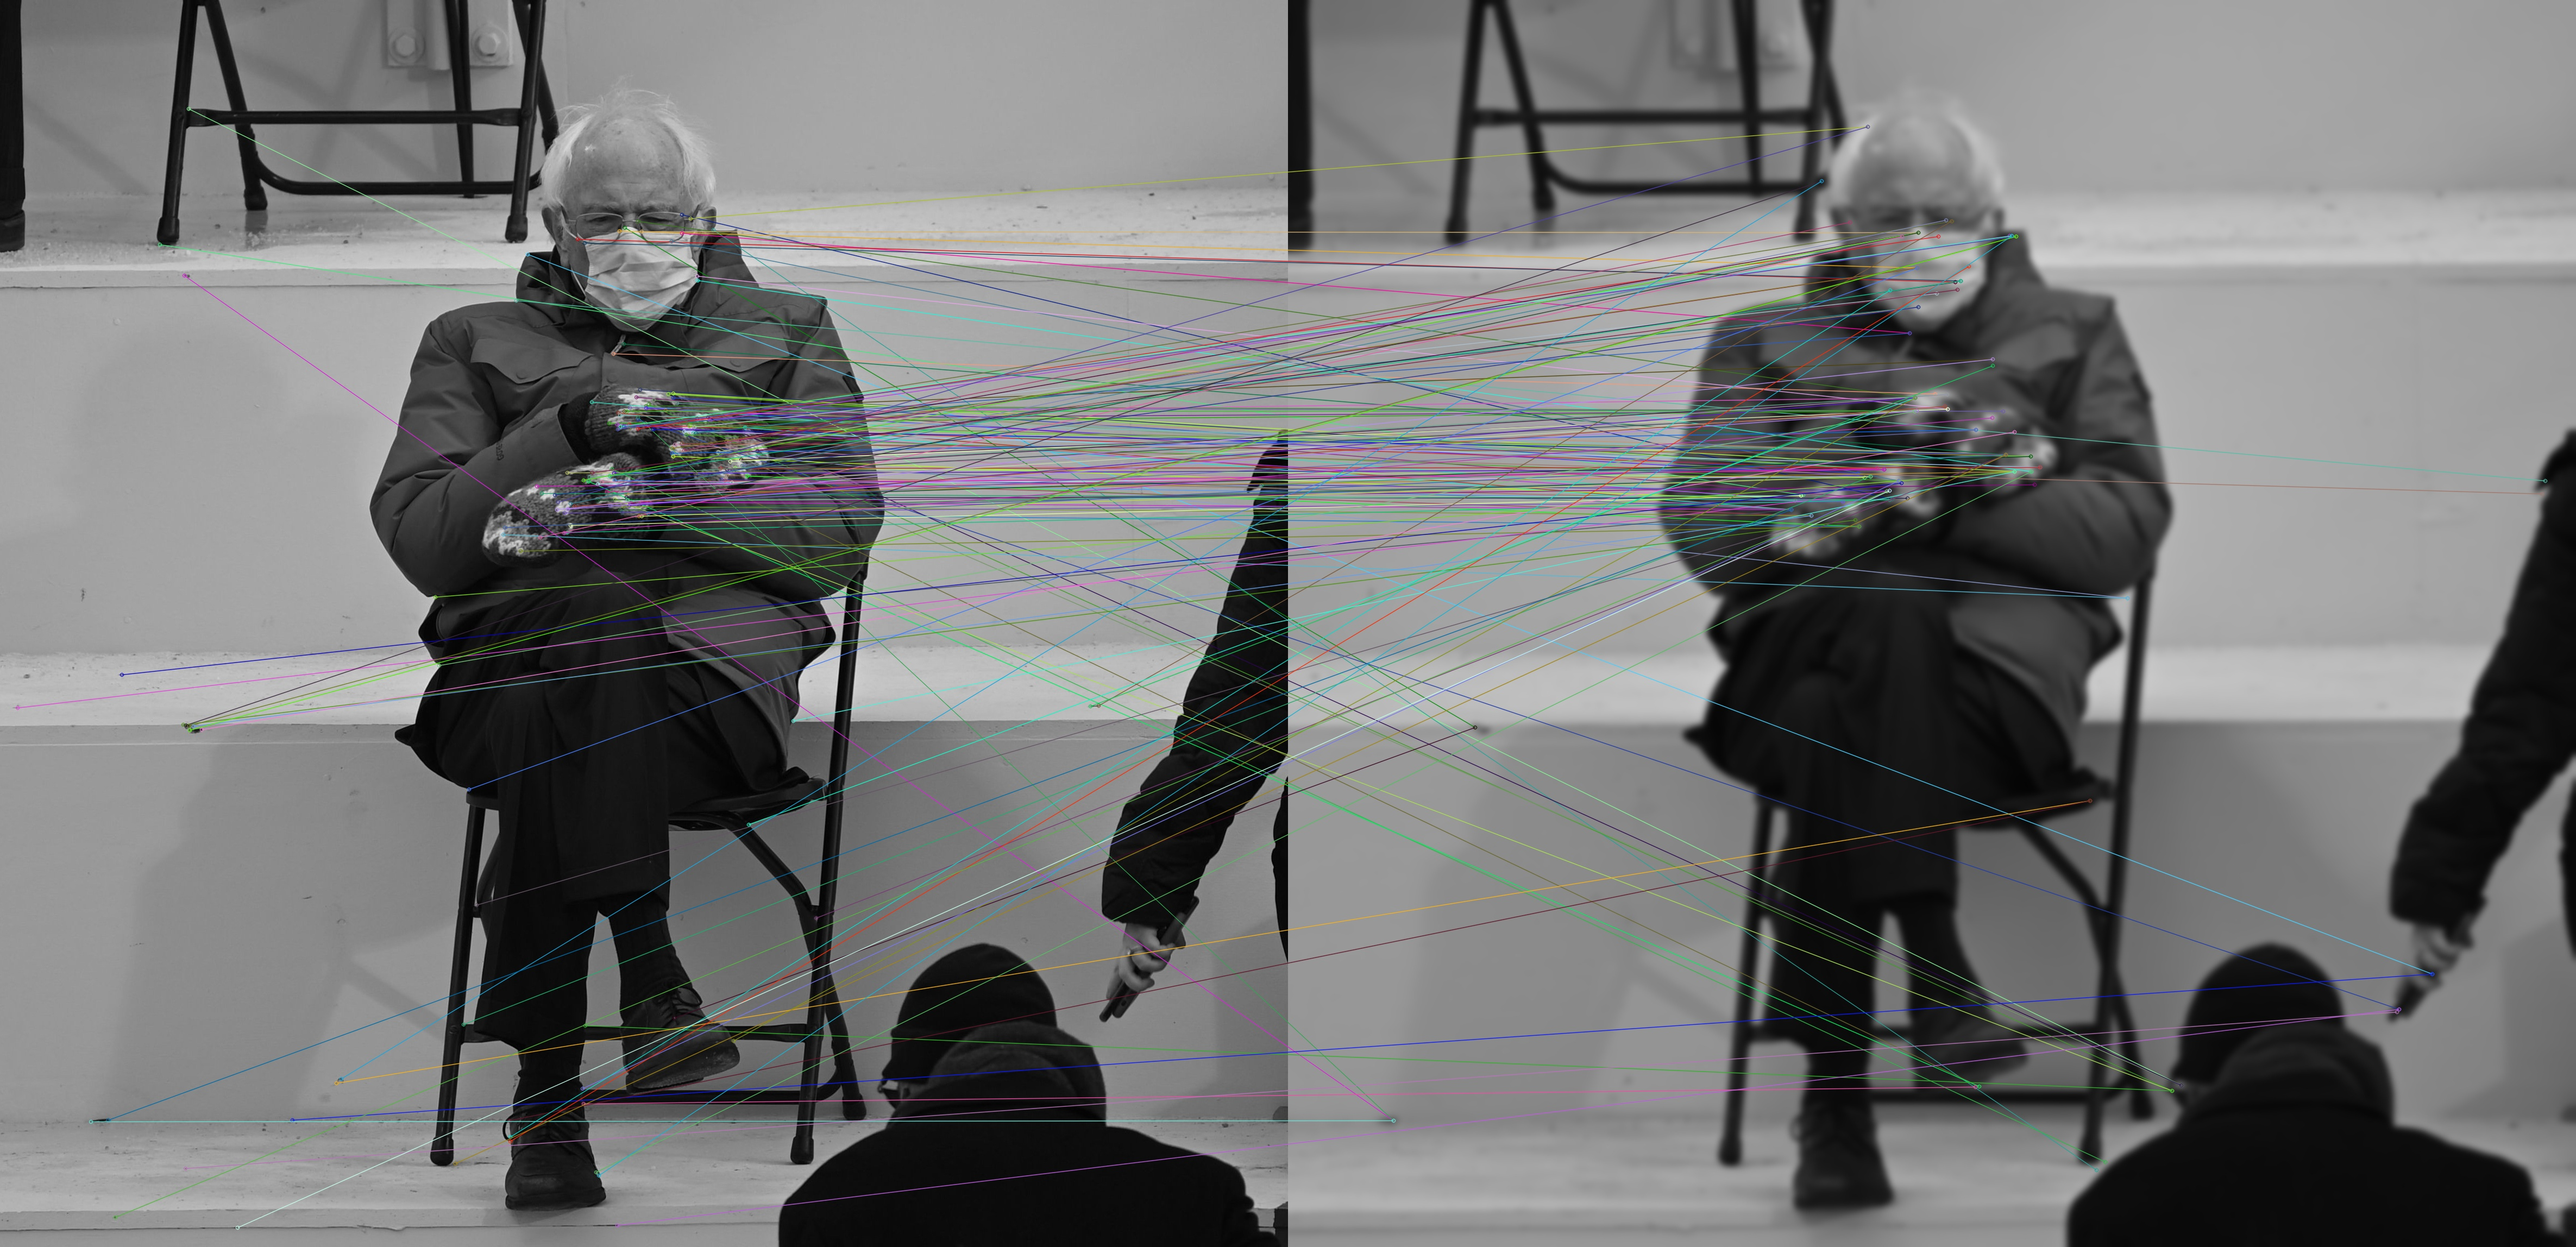
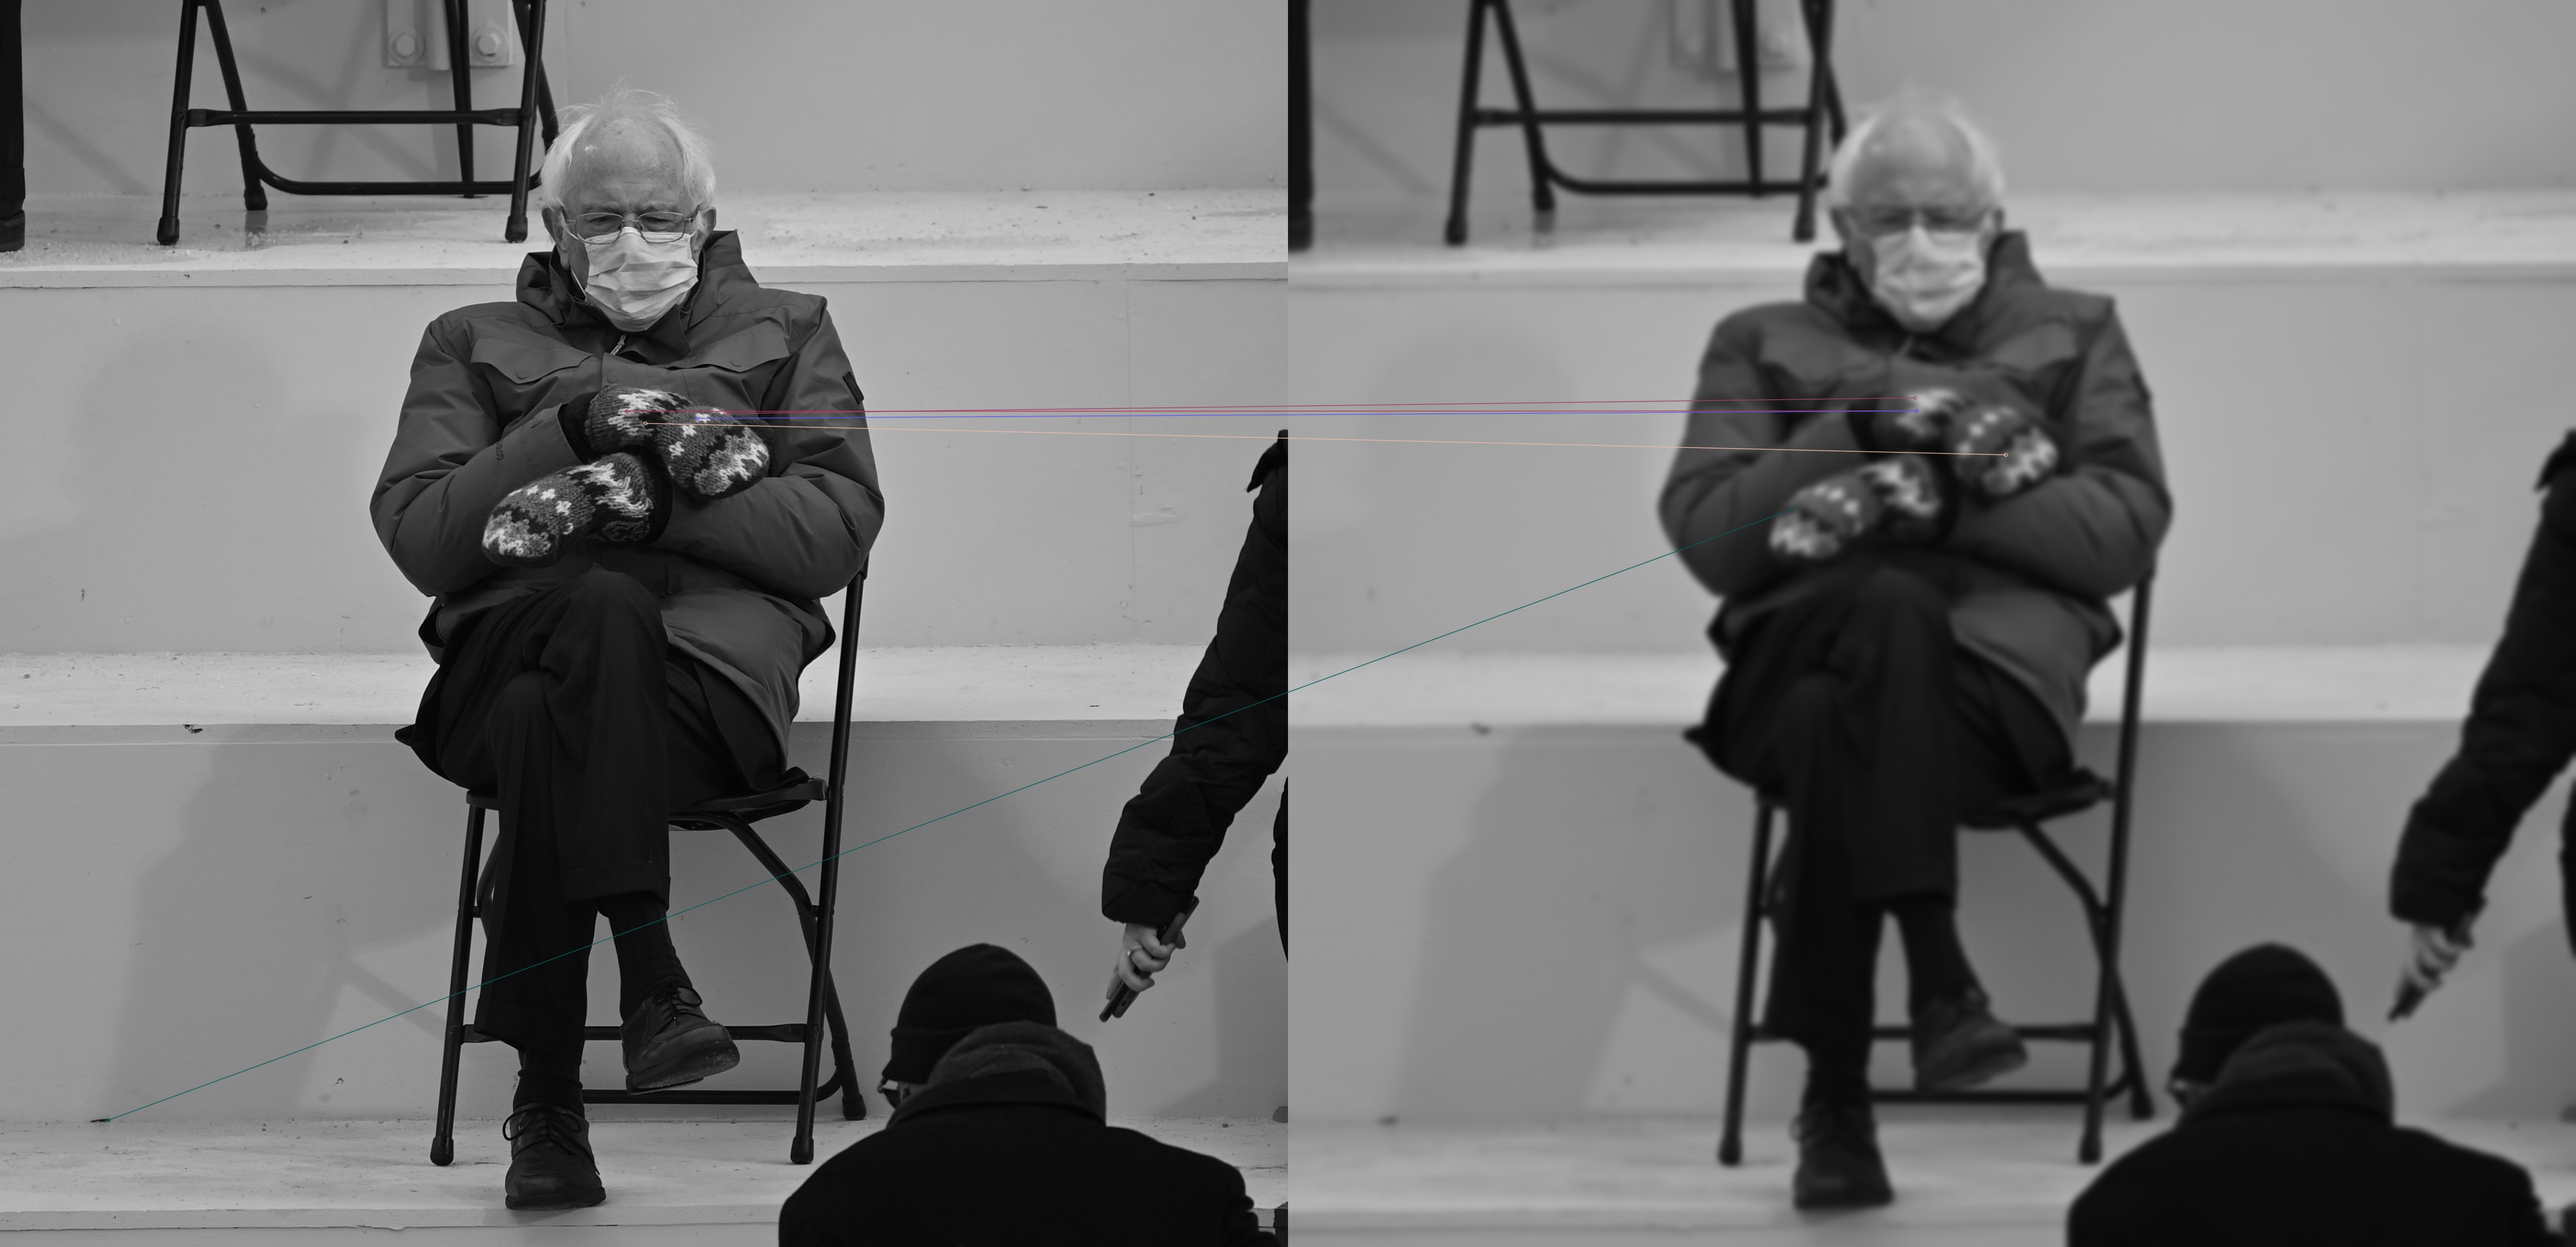
Project Completed, Just Need to Mess With Threshold Values

diff --git a/bernie.py b/bernie.py
@@ -108,11 +108,11 @@ def ConvertToKeyPoints(arr):
 
     return kps
 
-def ProcessImage(path):
+def ProcessImage(path, thres):
     '''Return the Feature Descriptors and KPs'''
     points, orien = HarrisPointDetector("Bernies/" + path)
     PlotGraph(points, path)
-    points = ThresholdPoints(points, 0.04)
+    points = ThresholdPoints(points, thres)
     bernie = ReadImage("Bernies/" + path)
     des, points = FeatureDescription(bernie, points, path)
     return points, des
@@ -121,7 +121,7 @@ def SSD(p1, p2):
     # Get the Distance Between
     return np.linalg.norm(p1 - p2)
 
-def BestMatch(p1s, p2s, d1s, d2s, ratio):
+def BestMatch(p1s, p2s, d1s, d2s, ratio, path):
     '''Get the Best Matching Feature in Both'''
 
     arr = [[0 for _ in range(len(p2s))] for _ in range(len(p1s))]
@@ -132,6 +132,7 @@ def BestMatch(p1s, p2s, d1s, d2s, ratio):
             arr[i][j] = SSD(d1s[i], d2s[j])
 
     matches = []
+    vals = []
 
     for i, p in enumerate(arr):
         # Get the Index and Value of the Highest Element
@@ -140,17 +141,27 @@ def BestMatch(p1s, p2s, d1s, d2s, ratio):
         val = p_temp[j]
         # Get the Second Highest
         p_temp[j] = -1
-        second_val = np.argmax(p_temp)
+        second_val = p_temp[np.argmax(p_temp)]
 
         if val == 0 or second_val == 0:
             continue
+
+
+        vals.append(second_val / val)
 
         # Check the Ratio
         if second_val / val < ratio:
             tmp = cv2.DMatch(i, j, val)
             matches.append(tmp)
+        else:
+            print(str(second_val / val))
+
+        second_val = 0
+        val = 0
 
     # Return the Points that Are Relevant to This
+            
+    PlotRatios(vals, path)
     return matches
 
 def DrawLines(img1, img2, p1, p2, matches):
@@ -161,8 +172,31 @@ def DrawLines(img1, img2, p1, p2, matches):
 
     return matched_img
 
-def PlotRatios():
-    pass # TODO:: IMPLEMENT
+def GetRatioGraphValues(vals):
+    '''Get the Number of Items lt that Threshold value '''
+    vals = np.array(vals)
+
+    arr = []
+    increments = [0.05 * i for i in range(1, 21)]  # Generate increments from 0.05 to 1.0 in steps of 0.05
+
+    max = np.max(vals)
+
+    for inc in increments:
+        arr.append(np.count_nonzero(vals > inc))
+
+    return increments, arr
+
+def PlotRatios(vals, path):
+    x, y = GetRatioGraphValues(vals)
+
+    # Plot the Effect of the Threshold Value being Changed
+    plt.plot(x, y)
+    plt.xlabel('Threshold Value')
+    plt.ylabel('Number of Keypoints')
+    plt.title('Number of Keypoints vs. Ratio Threshold Value')
+    plt.grid(True)
+    plt.savefig("RatioThresholdGraphs/" + path)
+    plt.clf()
 
 ims = ['bernie180.jpg', 'darkerBernie.jpg',
        'bernieBenefitBeautySalon.jpeg', 'BernieFriends.png', 
@@ -170,16 +204,19 @@ ims = ['bernie180.jpg', 'darkerBernie.jpg',
        'berniePixelated2.png', 'bernieShoolLunch.jpeg', 
        'brighterBernie.jpg']
 
-kps, des = ProcessImage("bernieSanders.jpg")
+kpthres = [0.04, 0.6, 0.04, 0.04, 0.04, 0.04, 0.05, 0.04, 0.04]
+rvals = [0.93, 0.93, 0.93, 0.93, 0.93, 0.93, 0.93, 0.93, 0.93]
 
-for im in ims:
-    kps_temp, des_temp = ProcessImage(im)
+kps, des = ProcessImage("bernieSanders.jpg", 0.04)
+
+for i in range(len(ims)):
+    kps_temp, des_temp = ProcessImage(ims[i], kpthres[i])
 
     # Now get the Matches
-    matches = BestMatch(kps, kps_temp, des, des_temp, 0.7)
+    matches = BestMatch(kps, kps_temp, des, des_temp, rvals[i], ims[i])
 
-    mi = DrawLines("Bernies/bernieSanders.jpg", "Bernies/" + im, kps, kps_temp, matches)
+    mi = DrawLines("Bernies/bernieSanders.jpg", "Bernies/" + ims[i], kps, kps_temp, matches)
 
     # Save this Image
-    cv2.imwrite("OutputFiles/" + im, mi)
+    cv2.imwrite("OutputFiles/" + ims[i], mi)
 
